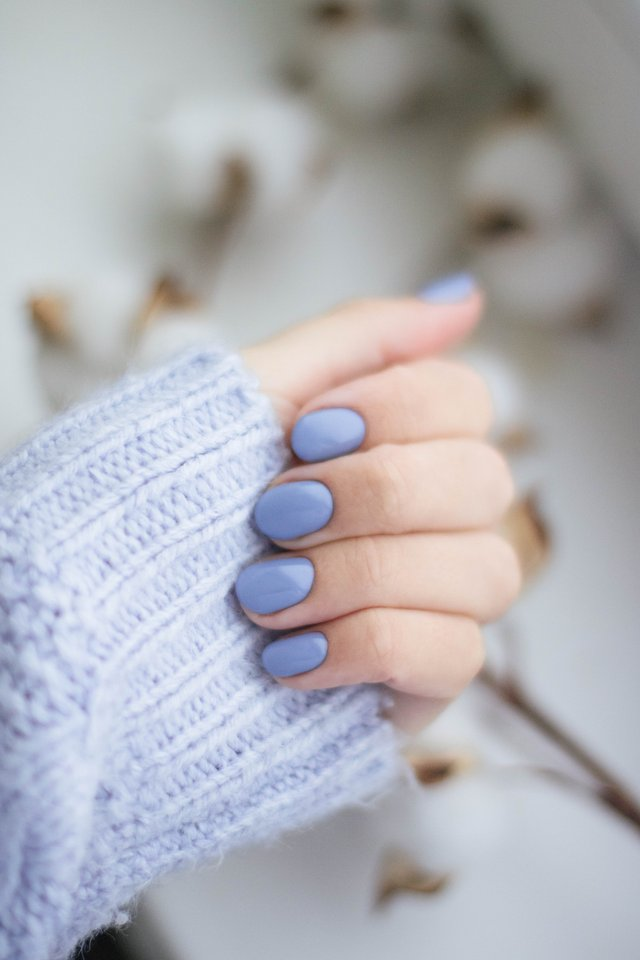
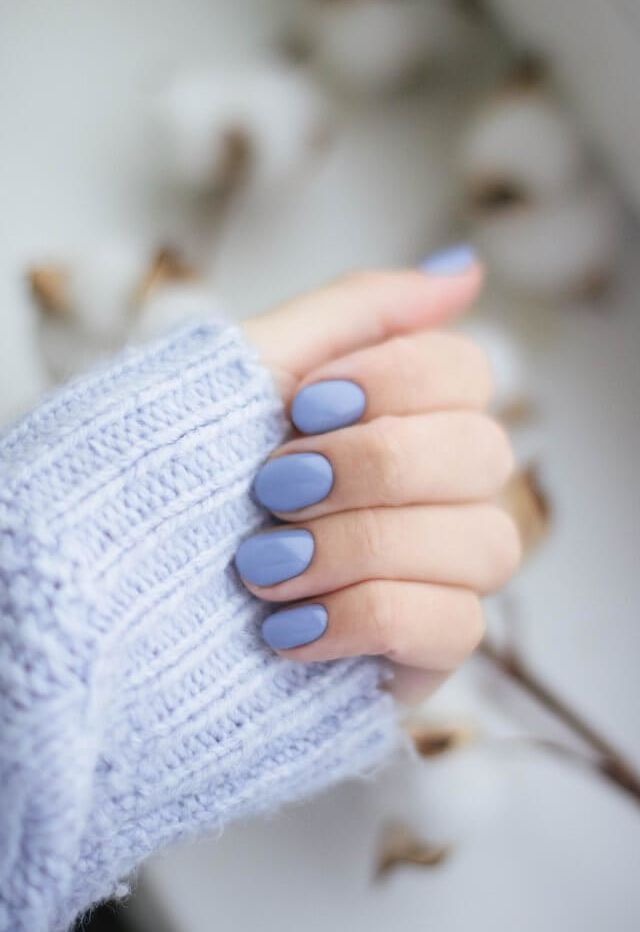
fixed lightbox bug and added smaller images for gallery

diff --git a/html/gallery.html b/html/gallery.html
@@ -5,7 +5,7 @@
     <meta name="viewport" content="width=device-width, initial-scale=1.0">
     <link rel="icon" href="/assets/favicon.ico" />
     <link rel="stylesheet" href="/css/main.css">
-    <link rel="stylesheet" href="css/lightbox.min.css">
+    <link rel="stylesheet" href="/css/lightbox.min.css">
     <script src="https://code.jquery.com/jquery-1.10.2.js"></script>
     <script src="/js/lightbox-plus-jquery.min.js"></script>
     <title>Daisy Chain Hair & Beauty</title>
@@ -18,18 +18,18 @@
     </header>
 <!-- Gallery images -->
 <div class="gallery">
-  <a href="/assets/Gallery Images/Gallery_HairBlondePinkOmbre.jpg" data-lightbox="mygallery" title="Pink Ombre - Cut & Colour by Hannah"><img src="https://rachel-okugbeni.github.io/DaisyChain/assets/Gallery Images/Gallery_HairBlondePinkOmbre.jpg" alt="Loose Blonde Curls with Pink Ombre"></a>
-  <a href="/assets/Gallery Images/Gallery_FacePinkCutCrease.jpg" data-lightbox="mygallery" title="Pink Cut Crease - Makeup by Tia"><img src="https://rachel-okugbeni.github.io/DaisyChain/assets/Gallery Images/Gallery_FacePinkCutCrease.jpg" alt="Woman wearing Black Smokey Eyeshadow with a Hot Pink Cut Crease and Nude Lips"></a>
-  <a href="/assets/Gallery Images/Gallery_NailsPeriwinkle.jpg" data-lightbox="mygallery" title="Periwinkle Gel Manicure by Rianne"><img src="https://rachel-okugbeni.github.io/DaisyChain/assets/Gallery Images/Gallery_NailsPeriwinkle.jpg" alt="Periwinkle Blue Manicure"></a>
-  <a href="/assets/Gallery Images/Gallery_HairBrunetteOmbre.jpg" data-lightbox="mygallery" title="Blonde Ombre - Cut & Colour by Hannah"><img src="https://rachel-okugbeni.github.io/DaisyChain/assets/Gallery Images/Gallery_HairBrunetteOmbre.jpg" alt="Brunette Curls with Blonde Ombre"></a>
-  <a href="/assets/Gallery Images/Gallery_BridalMakeup.jpg" data-lightbox="mygallery" title="Nude/Copper Bridal Look - Makeup by Tia"><img src="https://rachel-okugbeni.github.io/DaisyChain/assets/Gallery Images/Gallery_BridalMakeup.jpg" alt="Bride with Copper Nude Makeup"></a>
-  <a href="/assets/Gallery Images/Gallery_HairGlasses_BlackWavy.jpg" data-lightbox="mygallery" title="Cut by Nathan"></a><img src="https://rachel-okugbeni.github.io/DaisyChain/assets/Gallery Images/Gallery_HairGlasses_BlackWavy.jpg" alt="Woman Wearing Glasses with Black Wavy Hair"></a>
-  <a href="/assets/Gallery Images/Gallery_NailsTotoro.jpg" data-lightbox="mygallery" title="'My Neighbour Totoro' Gel Manicure by Rianne"><img src="https://rachel-okugbeni.github.io/DaisyChain/assets/Gallery Images/Gallery_NailsTotoro.jpg" alt="My Neighbour Totoro Nail Art"></a>
-  <a href="/assets/Gallery Images/Gallery_FaceNaturalMakeup.jpg" data-lightbox="mygallery" title="Pink Cut Crease - Makeup by Tia"><img src="https://rachel-okugbeni.github.io/DaisyChain/assets/Gallery Images/Gallery_FaceNaturalMakeup.jpg" alt="Woman with Natural Brown Soft Glam Makeup"></a>
-  <a href="/assets/Gallery Images/Gallery_FacePinkGlitterSmokeyEye.jpg" data-lightbox="mygallery" title="Pink Cut Crease - Makeup by Tia"><img src="https://rachel-okugbeni.github.io/DaisyChain/assets/Gallery Images/Gallery_FacePinkGlitterSmokeyEye.jpg" alt="Woman with Pink Glitter Smokey Eye and Nude Lips"></a>
-  <a href="/assets/Gallery Images/Gallery_HairBrunetteWaveGreenTop.jpg" data-lightbox="mygallery" title="Blonde Highlights - Cut & Colour by Nathan"><img src="https://rachel-okugbeni.github.io/DaisyChain/assets/Gallery Images/Gallery_HairBrunetteWaveGreenTop.jpg" alt="Woman with Long Wavy Brown Hair with Blonde Highlights"></a>
-  <a href="/assets/Gallery Images/Gallery_BridalUpDo.jpg" data-lightbox="mygallery" title="Bridal Updo by Ayda"><img src="https://rachel-okugbeni.github.io/DaisyChain/assets/Gallery Images/Gallery_BridalUpDo.jpg" alt="Bridal Updo with Small White Flower Pins"></a>
-  <a href="/assets/Gallery Images/Gallery_NailsRedLove.jpg" data-lightbox="mygallery" title="Valentine's Day Gel Manicure by Rianne"><img src="https://rachel-okugbeni.github.io/DaisyChain/assets/Gallery Images/Gallery_NailsRedLove.jpg" alt="Raspberry Red Manicure with 'Love' Written Across the Middle Two Fingers"></a>
+  <a href="/assets/Gallery Images/Gallery_HairBlondePinkOmbre.jpg" data-lightbox="mygallery" title="Pink Ombre - Cut & Colour by Hannah"><img src="/assets/Gallery Images/Gallery_HairBlondePinkOmbre_small.jpg" alt="Loose Blonde Curls with Pink Ombre"></a>
+  <a href="/assets/Gallery Images/Gallery_FacePinkCutCrease.jpg" data-lightbox="mygallery" title="Pink Cut Crease - Makeup by Tia"><img src="/assets/Gallery Images/Gallery_FacePinkCutCrease_small.jpg" alt="Woman wearing Black Smokey Eyeshadow with a Hot Pink Cut Crease and Nude Lips"></a>
+  <a href="/assets/Gallery Images/Gallery_NailsPeriwinkle.jpg" data-lightbox="mygallery" title="Periwinkle Gel Manicure by Rianne"><img src="/assets/Gallery Images/Gallery_NailsPeriwinkle_small.jpg" alt="Periwinkle Blue Manicure"></a>
+  <a href="/assets/Gallery Images/Gallery_HairBrunetteOmbre.jpg" data-lightbox="mygallery" title="Blonde Ombre - Cut & Colour by Hannah"><img src="/assets/Gallery Images/Gallery_HairBrunetteOmbre_small.jpg" alt="Brunette Curls with Blonde Ombre"></a>
+  <a href="/assets/Gallery Images/Gallery_BridalMakeup.jpg" data-lightbox="mygallery" title="Nude/Copper Bridal Look - Makeup by Tia"><img src="/assets/Gallery Images/Gallery_BridalMakeup_small.jpg" alt="Bride with Copper Nude Makeup"></a>
+  <a href="/assets/Gallery Images/Gallery_HairGlasses_BlackWavy.jpg" data-lightbox="mygallery" title="Cut by Nathan"></a><img src="/assets/Gallery Images/Gallery_HairGlasses_BlackWavy_small.jpg" alt="Woman Wearing Glasses with Black Wavy Hair"></a>
+  <a href="/assets/Gallery Images/Gallery_NailsTotoro.jpg" data-lightbox="mygallery" title="'My Neighbour Totoro' Gel Manicure by Rianne"><img src="/assets/Gallery Images/Gallery_NailsTotoro_small.jpg" alt="My Neighbour Totoro Nail Art"></a>
+  <a href="/assets/Gallery Images/Gallery_FaceNaturalMakeup.jpg" data-lightbox="mygallery" title="Pink Cut Crease - Makeup by Tia"><img src="/assets/Gallery Images/Gallery_FaceNaturalMakeup_small.jpg" alt="Woman with Natural Brown Soft Glam Makeup"></a>
+  <a href="/assets/Gallery Images/Gallery_FacePinkGlitterSmokeyEye.jpg" data-lightbox="mygallery" title="Pink Cut Crease - Makeup by Tia"><img src="/assets/Gallery Images/Gallery_FacePinkGlitterSmokeyEye_small.jpg" alt="Woman with Pink Glitter Smokey Eye and Nude Lips"></a>
+  <a href="/assets/Gallery Images/Gallery_HairBrunetteWaveGreenTop.jpg" data-lightbox="mygallery" title="Blonde Highlights - Cut & Colour by Nathan"><img src="/assets/Gallery Images/Gallery_HairBrunetteWaveGreenTop_small.jpg" alt="Woman with Long Wavy Brown Hair with Blonde Highlights"></a>
+  <a href="/assets/Gallery Images/Gallery_BridalUpDo.jpg" data-lightbox="mygallery" title="Bridal Updo by Ayda"><img src="/assets/Gallery Images/Gallery_BridalUpDo_small.jpg" alt="Bridal Updo with Small White Flower Pins"></a>
+  <a href="/assets/Gallery Images/Gallery_NailsRedLove.jpg" data-lightbox="mygallery" title="Valentine's Day Gel Manicure by Rianne"><img src="/assets/Gallery Images/Gallery_NailsRedLove_small.jpg" alt="Raspberry Red Manicure with 'Love' Written Across the Middle Two Fingers"></a>
   
 
 </div>
